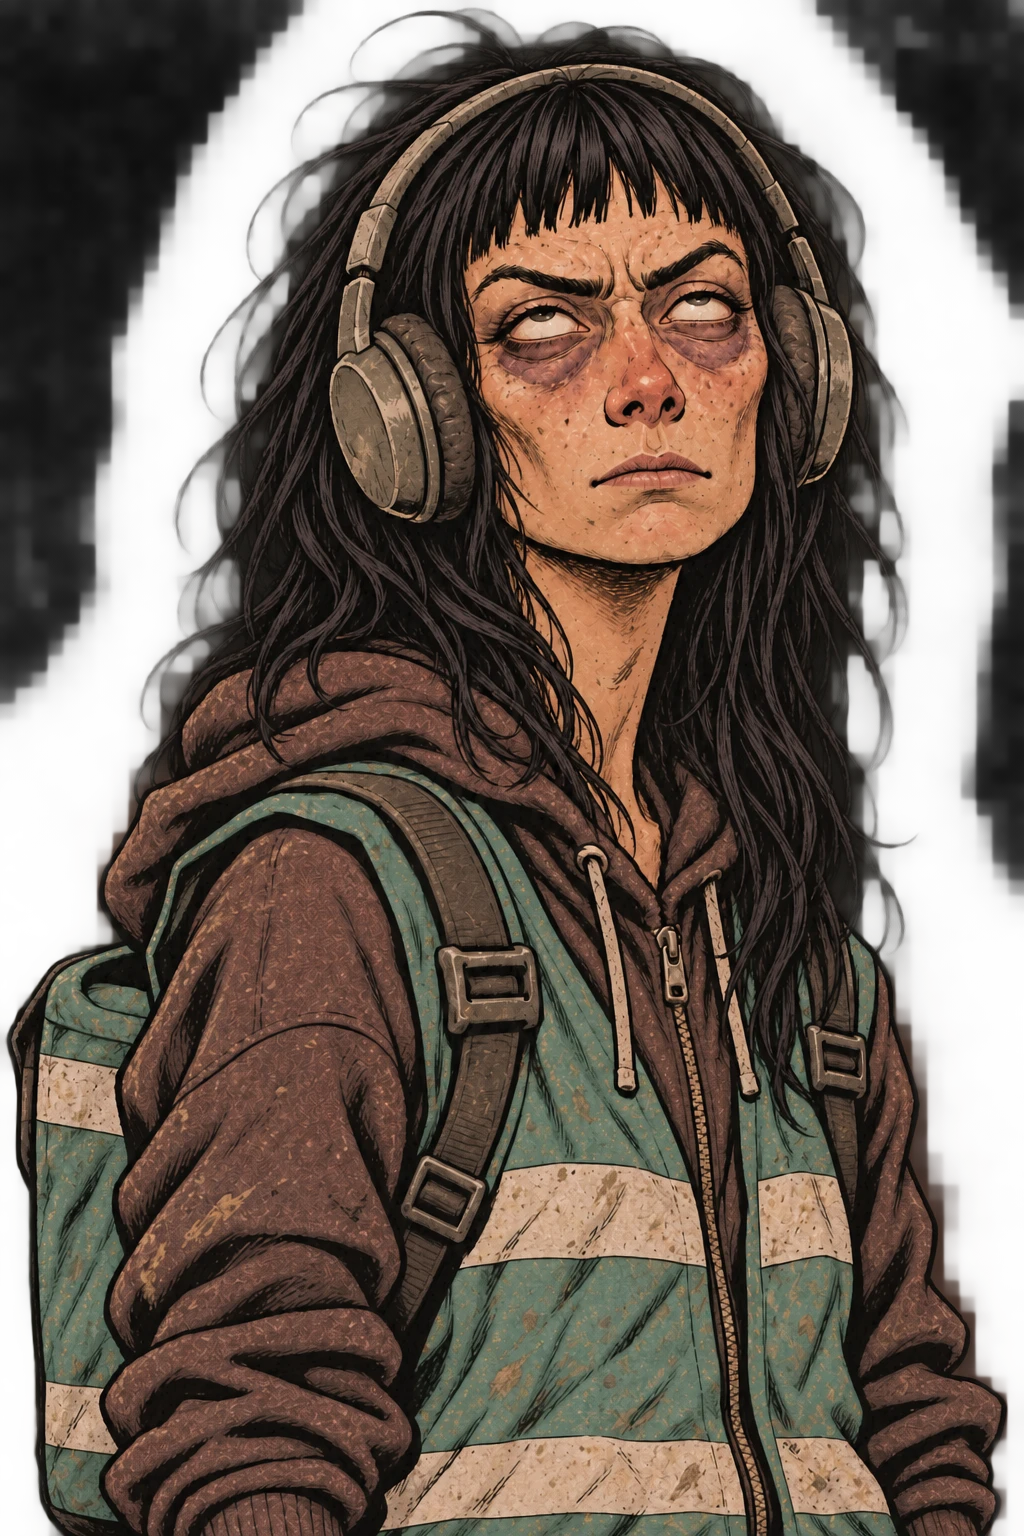
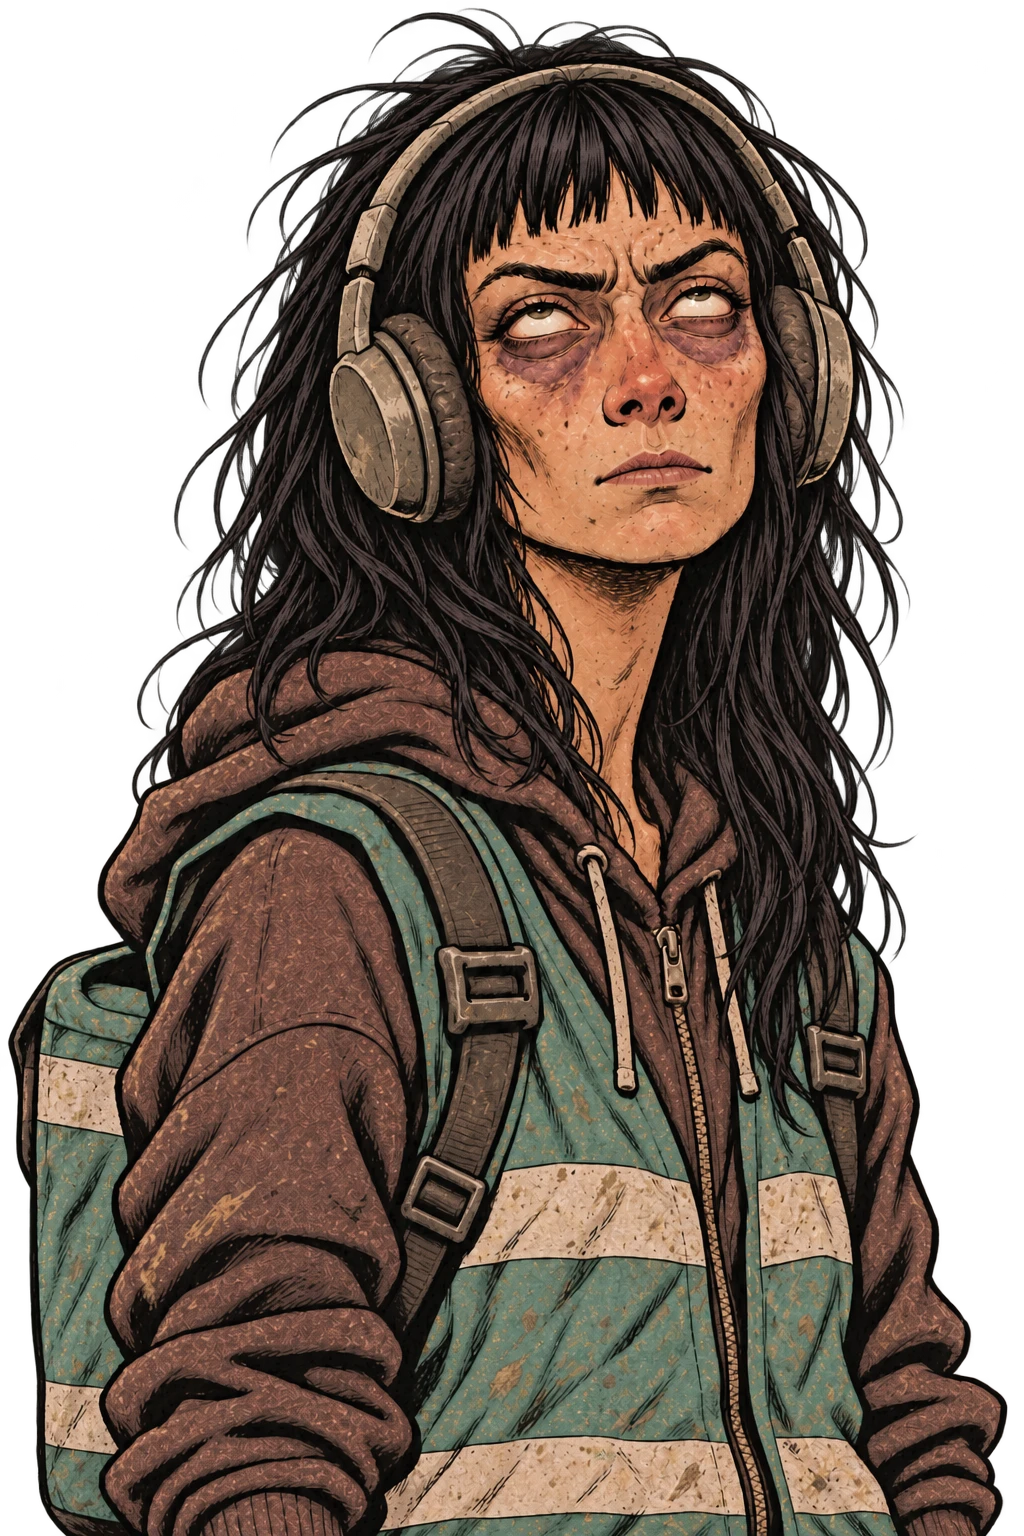
Careers: second mouth round generated, awaiting the owner

diff --git a/docs/design/carriere/asset/tutorial/registro.md b/docs/design/carriere/asset/tutorial/registro.md
@@ -2492,3 +2492,59 @@ Edit the attached dialogue portrait. Keep everything exactly the same: the same 
 
 Avoid: any other change; mirroring; a different head position or size; any text, letters, numbers, logos, brands, signatures or watermarks; photographic or 3D-rendered style.
 ~~~
+
+## Secondo giro
+
+21 novembre 2026. Per ciascun blocco un primo risultato e un solo nuovo tentativo, con il solo allegato della tabella verificato. I due scontorni successivi non sono usati e sono stati eliminati su indicazione della regia. Le misure della regia accettano i residui alfa 1–5 lontani dalla figura, invisibili e inferiori a quelli del ritratto approvato di Spazienzio (circa 1.800 pixel fino ad alfa 5).
+
+### spazienzio-furioso-bocca-3
+
+| Campo | Valore |
+|---|---|
+| Operatore / strumento | Codex; image_gen integrato, modello e versione non esposti |
+| Data e ora originale | 21/11/2026; 12:31:34 +0100 |
+| Modalità | modifica guidata dal riferimento; secondo tentativo, un risultato; trasparenza richiesta; seed e parametri non esposti |
+| Commit preventivo / prompt | `6a50774`; [secondo giro](../../prompt-bocche.md#secondo-giro); testo integrale sotto |
[3 lines of base64/hex data omitted]
+| Conversione | Pillow, WebP qualità 90, metodo 4, piena risoluzione; alfa conservato, metadati non conservati |
+| Alfa | Angoli del WebP, ordine alto-sinistra, alto-destra, basso-sinistra, basso-destra: 1, 0, 0, 0; campioni di fondo (100,100) e (100,400): 0, 0. Residui 1–5 lontani dalla figura accettati dalla regia. |
+| Allineamento | IoU della sagoma 0,997 rispetto a `ritratti/spazienzio-furioso.webp`; scarto del centro della testa 0,1 px. Misure comunicate dalla regia tramite confronto delle sagome e dei centri sulla stessa tela: testa e corpo allineati secondo il criterio indicato. La differenza evidenzia anche cambiamenti fuori dalla bocca; eventuale maschera da valutare. |
[1 lines of base64/hex data omitted]
+| Termini / C2PA | termini non verificati in questa sessione; originale conservato, C2PA non verificato |
+| Esito | consegnato per giudizio del proprietario |
+
+Testo inviato integralmente:
+
+~~~text
+Edit the attached dialogue portrait. Keep everything exactly the same: the same character, face, expression, eyes, hair, body, clothes, pose, colours, hand-inked European comic style and the transparent background. Do not move, rescale, re-centre or crop anything: the head and the body must keep exactly the same size and exactly the same position on the canvas, pixel for pixel, because the two images will alternate quickly while the character speaks. Change only the mouth: his mouth half closed between two shouts, teeth still bared.
+
+Avoid: any change outside the mouth; a different head position, angle or size; zooming in or out; a different expression of the eyes or eyebrows; a dark veil, halo or shadow around the figure; any text, letters, numbers, logos, brands, signatures or watermarks; photographic or 3D-rendered style.
+~~~
+
+### mara-esasperata-2
+
+| Campo | Valore |
+|---|---|
+| Operatore / strumento | Codex; image_gen integrato, modello e versione non esposti |
+| Data e ora originale | 21/11/2026; 12:32:07 +0100 |
+| Modalità | modifica guidata dal riferimento; secondo tentativo, un risultato; trasparenza richiesta; seed e parametri non esposti |
+| Commit preventivo / prompt | `6a50774`; [secondo giro](../../prompt-bocche.md#secondo-giro); testo integrale sotto |
[3 lines of base64/hex data omitted]
+| Conversione | Pillow, WebP qualità 90, metodo 4, piena risoluzione; alfa conservato, metadati non conservati |
+| Alfa | Angoli del WebP, ordine alto-sinistra, alto-destra, basso-sinistra, basso-destra: 0, 0, 0, 0; campioni di fondo (100,100) e (100,400): 0, 0. Residui 1–5 lontani dalla figura accettati dalla regia. |
+| Allineamento | IoU della sagoma 0,982 rispetto a `ritratti/mara-neutra.webp`, misura comunicata dalla regia; figura allineata secondo il criterio indicato. |
[1 lines of base64/hex data omitted]
+| Termini / C2PA | termini non verificati in questa sessione; originale conservato, C2PA non verificato |
+| Esito | consegnato per giudizio del proprietario |
+
+Testo inviato integralmente:
+
+~~~text
+Edit the attached dialogue portrait. Keep everything exactly the same: the same character, face, hair, body, clothes, colours, hand-inked European comic style, framing, size and position on the canvas. Change only her facial expression: exasperated while listening to someone who will not stop talking: eyes rolled up towards the ceiling, a long silent sigh, mouth closed in a flat line. Keep her hands and pose as they are. The background must stay fully transparent: no dark veil, halo, shadow or tint around the figure.
+
+Avoid: any other change; mirroring; a different head position or size; a dark or semi-transparent background; any text, letters, numbers, logos, brands, signatures or watermarks; photographic or 3D-rendered style.
+~~~

diff --git a/docs/design/carriere/prompt-bocche.md b/docs/design/carriere/prompt-bocche.md
@@ -246,3 +246,5 @@ Avoid: any other change; mirroring; a different head position or size; a dark or
 
 | Asset | File | Scheda del registro | Giudizio del proprietario |
 |---|---|---|---|
+| spazienzio-furioso-bocca | [spazienzio-furioso-bocca.webp](asset/tutorial/ritratti/spazienzio-furioso-bocca.webp) | [spazienzio-furioso-bocca-3](asset/tutorial/registro.md#spazienzio-furioso-bocca-3) |  |
+| mara-esasperata | [mara-esasperata.webp](asset/tutorial/ritratti/mara-esasperata.webp) | [mara-esasperata-2](asset/tutorial/registro.md#mara-esasperata-2) |  |
